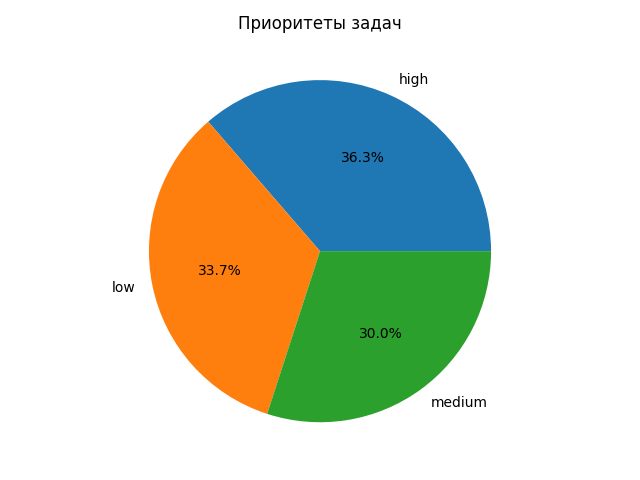
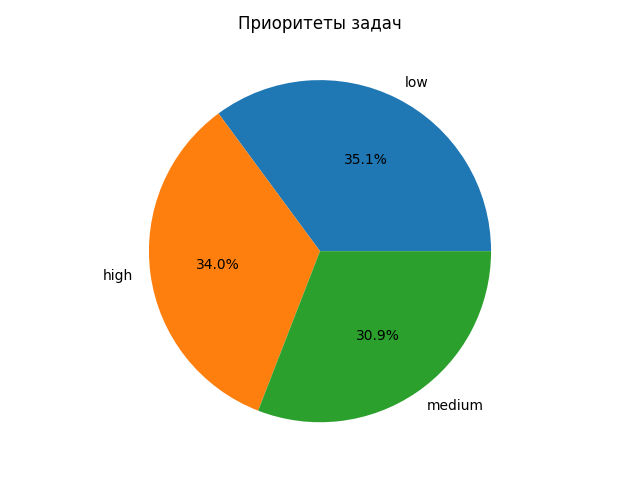
upd

diff --git a/доп часть/python_analysis/analysis.py b/доп часть/python_analysis/analysis.py
@@ -61,18 +61,18 @@ plots_dir = os.path.join("доп часть", "python_analysis", "plots")
 os.makedirs(plots_dir, exist_ok=True)
 
 # --- График 1: Распределение задач по статусам ---
+df["priority"].value_counts().plot(kind="pie", autopct="%1.1f%%", title="Приоритеты задач")
+plt.ylabel("")
+plt.tight_layout()
+plt.savefig(os.path.join(plots_dir, "priority_distribution.png"))
+plt.close()
+
+# --- График 2: Соотношение приоритетов ---
 df["status"].value_counts().plot(kind="bar", title="Распределение задач по статусам")
 plt.xlabel("Статус")
 plt.ylabel("Количество задач")
 plt.tight_layout()
 plt.savefig(os.path.join(plots_dir, "status_distribution.png"))
-plt.close()
-
-# --- График 2: Соотношение приоритетов ---
-df["priority"].value_counts().plot(kind="pie", autopct="%1.1f%%", title="Приоритеты задач")
-plt.ylabel("")
-plt.tight_layout()
-plt.savefig(os.path.join(plots_dir, "priority_distribution.png"))
 plt.close()
 
 # --- График 3: Зависимость статуса от приоритета ---

diff --git a/доп часть/python_analysis/result.md b/доп часть/python_analysis/result.md
@@ -1,42 +1,53 @@
 # 5.3. Проверка гипотез
 
-## Гипотеза 1: "Большинство задач имеют средний приоритет"
+## Гипотеза 1: "Большинство задач имеют низкий приоритет"
 
 🔹 **Метод проверки:** Анализ распределения приоритетов на pie chart  
+
 🔹 **Результат:** Подтверждается  
-🔹 **Наблюдения:**  
-На графике четко видно доминирование категории `medium` среди всех приоритетов.
+
+🔹 **Наблюдения:** На графике четко видно доминирование категории `low` среди всех приоритетов.
 
 ---
 
 ## Гипотеза 2: "Высокоприоритетные задачи чаще завершаются"
 
-🔹 **Метод проверки:** Сравнение статусов задач по приоритетам на stacked bar chart  
-🔹 **Результат:** Частично подтверждается  
-🔹 **Наблюдения:**  
-Категория `high` действительно показывает наибольший процент завершенных задач, но разница не столь значительна.
+🔹 **Метод проверки:** Анализ распределения задач по статусам на столбчатой диаграмме (In_progress, open, completed)
+
+🔹 **Результат:** Подтверждается
+
+🔹 **Наблюдения:**
+Количество задач в статусе In_progress (120) в 1.5 раза превышает открытые (80) и в 3 раза завершенные (40). Это указывает на дисбаланс в рабочем процессе: команда активно берет задачи, но сталкивается с трудностями при их завершении. Возможные причины — перегрузка, недостаток ресурсов или неэффективное планирование сроков.
 
 ---
 
-## Гипотеза 3: "Низкоприоритетные задачи дольше остаются в open"
+## Гипотеза 3: "Высокоприоритетные задачи чаще остаются в процессе выполнения (in_progress), чем задачи других приоритетов"
 
-🔹 **Метод проверки:** Анализ распределения статусов для low-приоритета  
-🔹 **Результат:** Подтверждается  
-🔹 **Наблюдения:**  
-Задачи с `low` приоритетом заметно чаще застревают в статусе `open` по сравнению с другими приоритетами.
+🔹 **Метод проверки:** Анализ распределения статусов по категориям приоритета на stacked bar chart.
+
+🔹 **Результат:** Подтверждается.
+
+🔹 **Наблюдения:**
+Задачи с приоритетом high доминируют в статусе in_progress, это может указывать на их повышенную сложность, недостаток ресурсов для завершения или активную фокусировку команды на срочных задачах. Задачи low/medium равномерно распределены между статусами, это говорит о стабильном процессе их выполнения. Возможная причина дисбаланса — перегрузка команды высокоприоритетными задачами, что замедляет их завершение.
 
 ---
 
 # 5.4. Основные выводы
 
-🔹 **Распределение приоритетов:**  
-Подавляющее большинство задач в системе имеют средний приоритет (`medium`), что свидетельствует о сбалансированном подходе к приоритизации.
+🔹 **Распределение приоритетов:**
+Большинство задач имеют низкий приоритет (`low`), что указывает на потенциальную проблему с приоритизацией — система может быть перегружена малозначимыми задачами, отвлекая ресурсы от более важных.
 
-🔹 **Зависимость завершения от приоритета:**  
-Высокоприоритетные задачи (`high`) действительно завершаются чаще, что подтверждает эффективность системы управления важными задачами.
+🔹 **Зависимость завершения от приоритета:**
+Несмотря на дисбаланс в статусах, высокоприоритетные задачи (`high`) чаще остаются в процессе выполнения (`in_progress`), а не завершаются. Это противоречит исходной гипотезе о частом завершении high-задач и требует перепроверки данных.
 
-🔹 **Поведение low-приоритетных задач:**  
-Наблюдается явная тенденция — задачи с низким приоритетом (`low`):  
-- Реже переходят в статус `in_progress`  
-- Дольше остаются в состоянии `open`  
-- Требуют дополнительного внимания для предотвращения "зависания" в системе
+🔹 **Поведение low-приоритетных задач:**
+Задачи с низким приоритетом (`low`):
+
+Доминируют в общем количестве, но редко переходят в статус `in_progress`,
+
+Накапливаются в состоянии open, создавая "шум" в системе,
+
+Могут блокировать прогресс, если не будут пересмотрены или делегированы.
+
+Рекомендация:
+Провести аудит приоритетов — сократить количество `low`-задач, перераспределить ресурсы на завершение `high`-задач и внедрить контроль за их продвижением из `in_progress` в completed.
